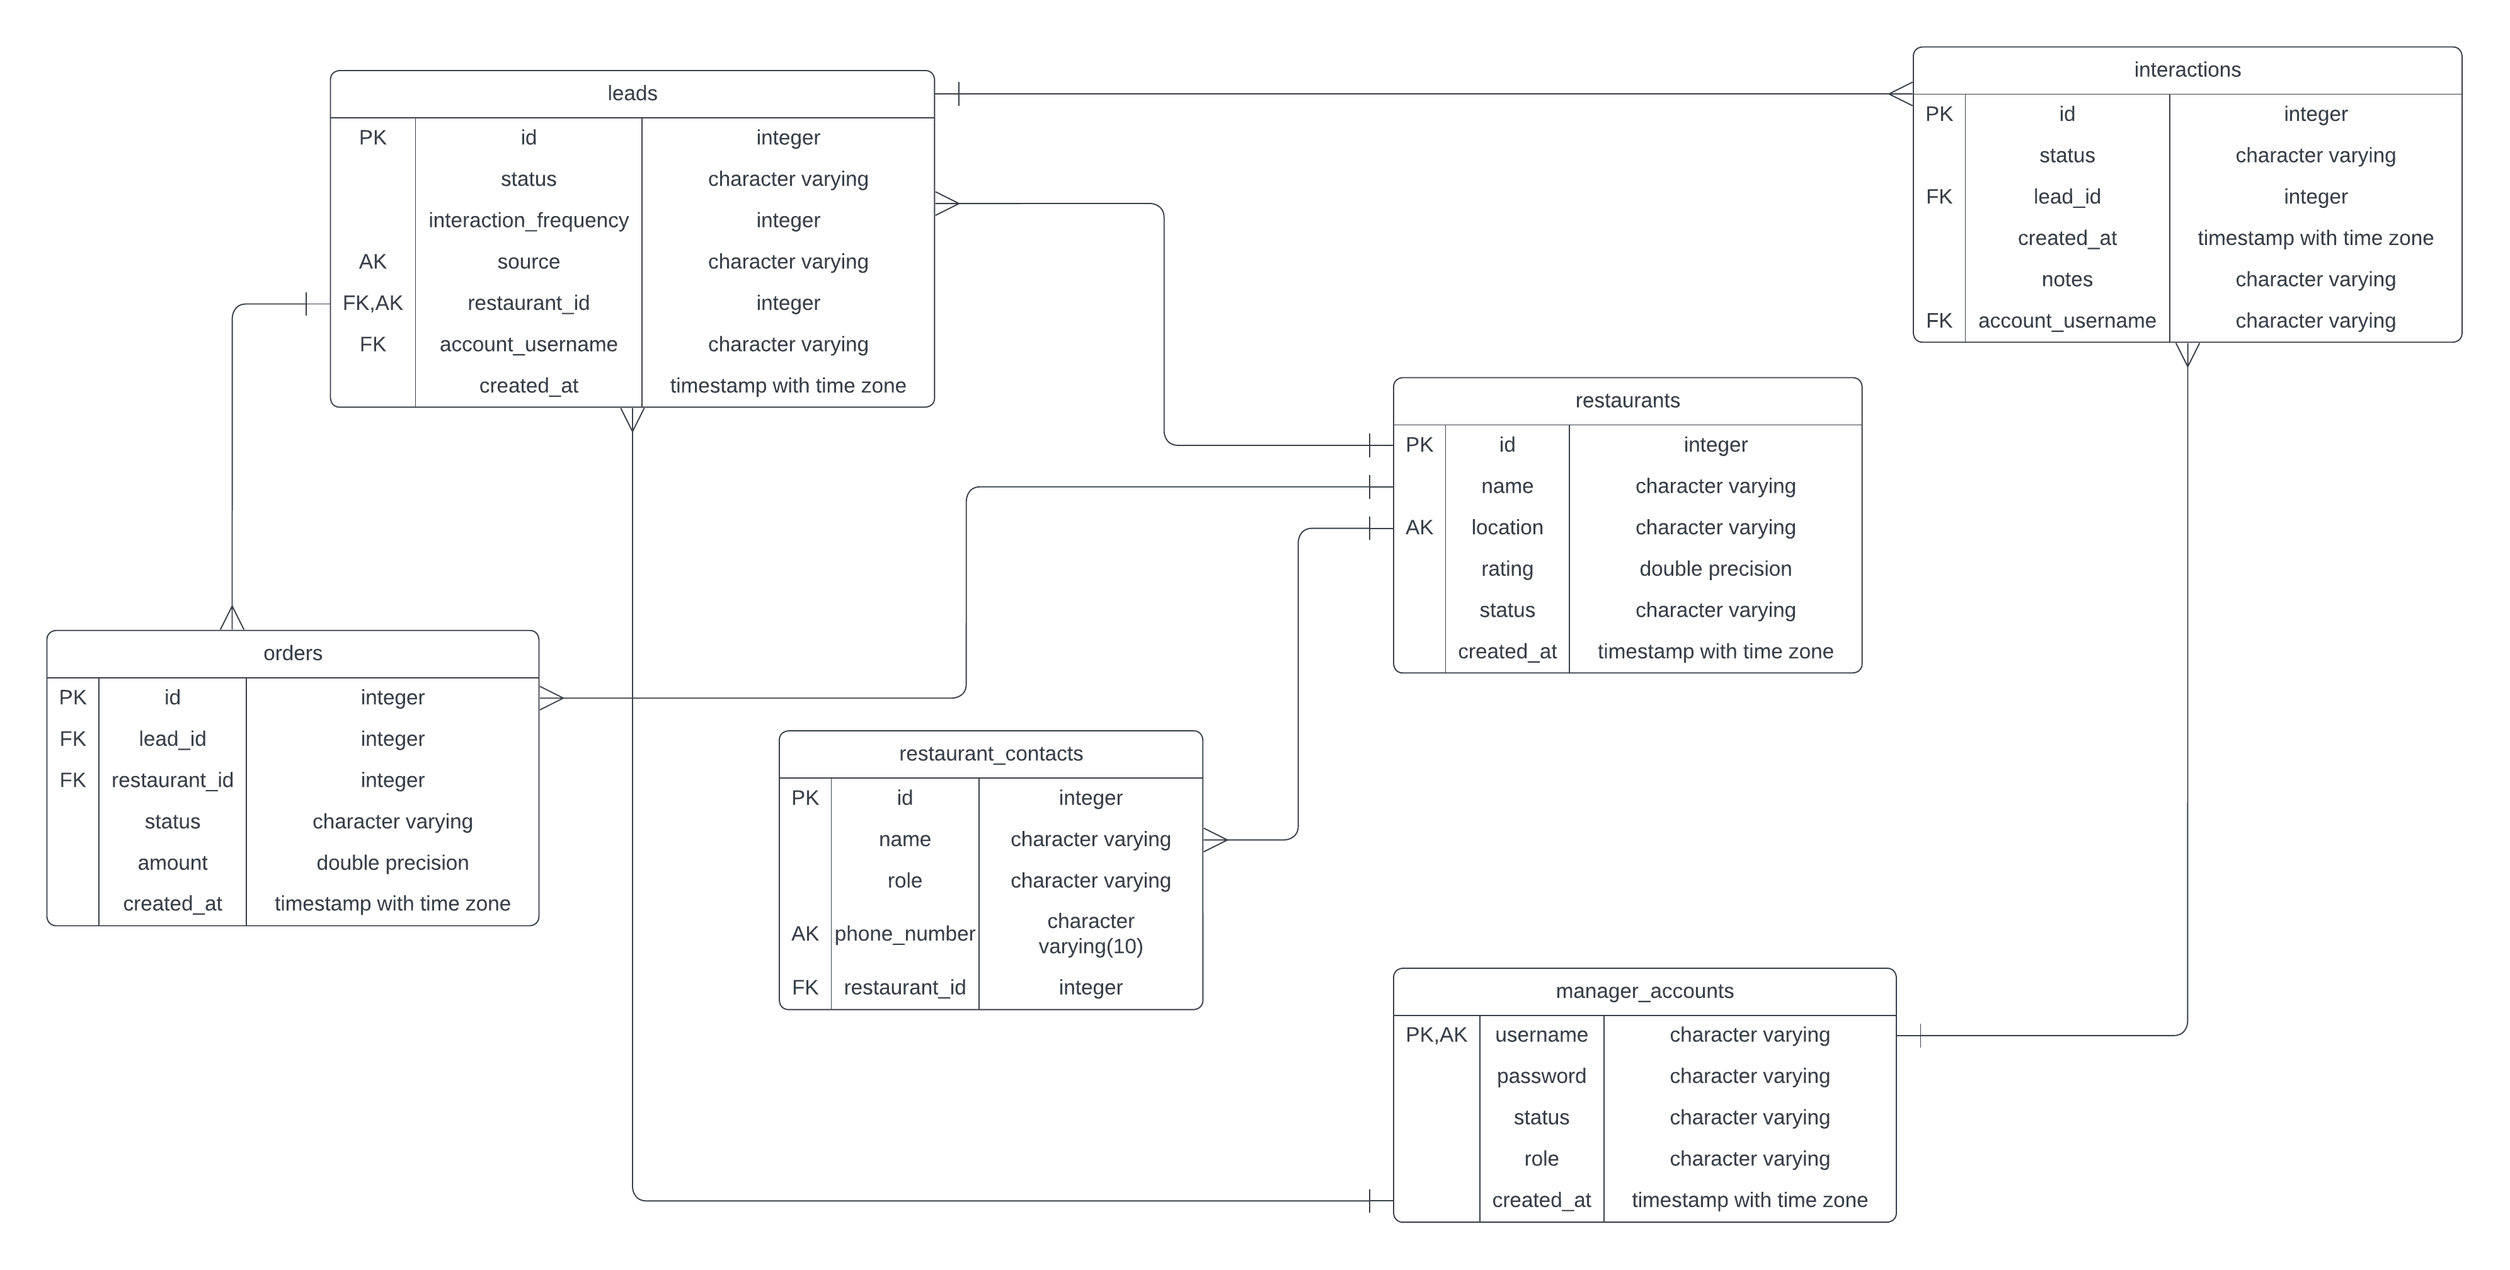
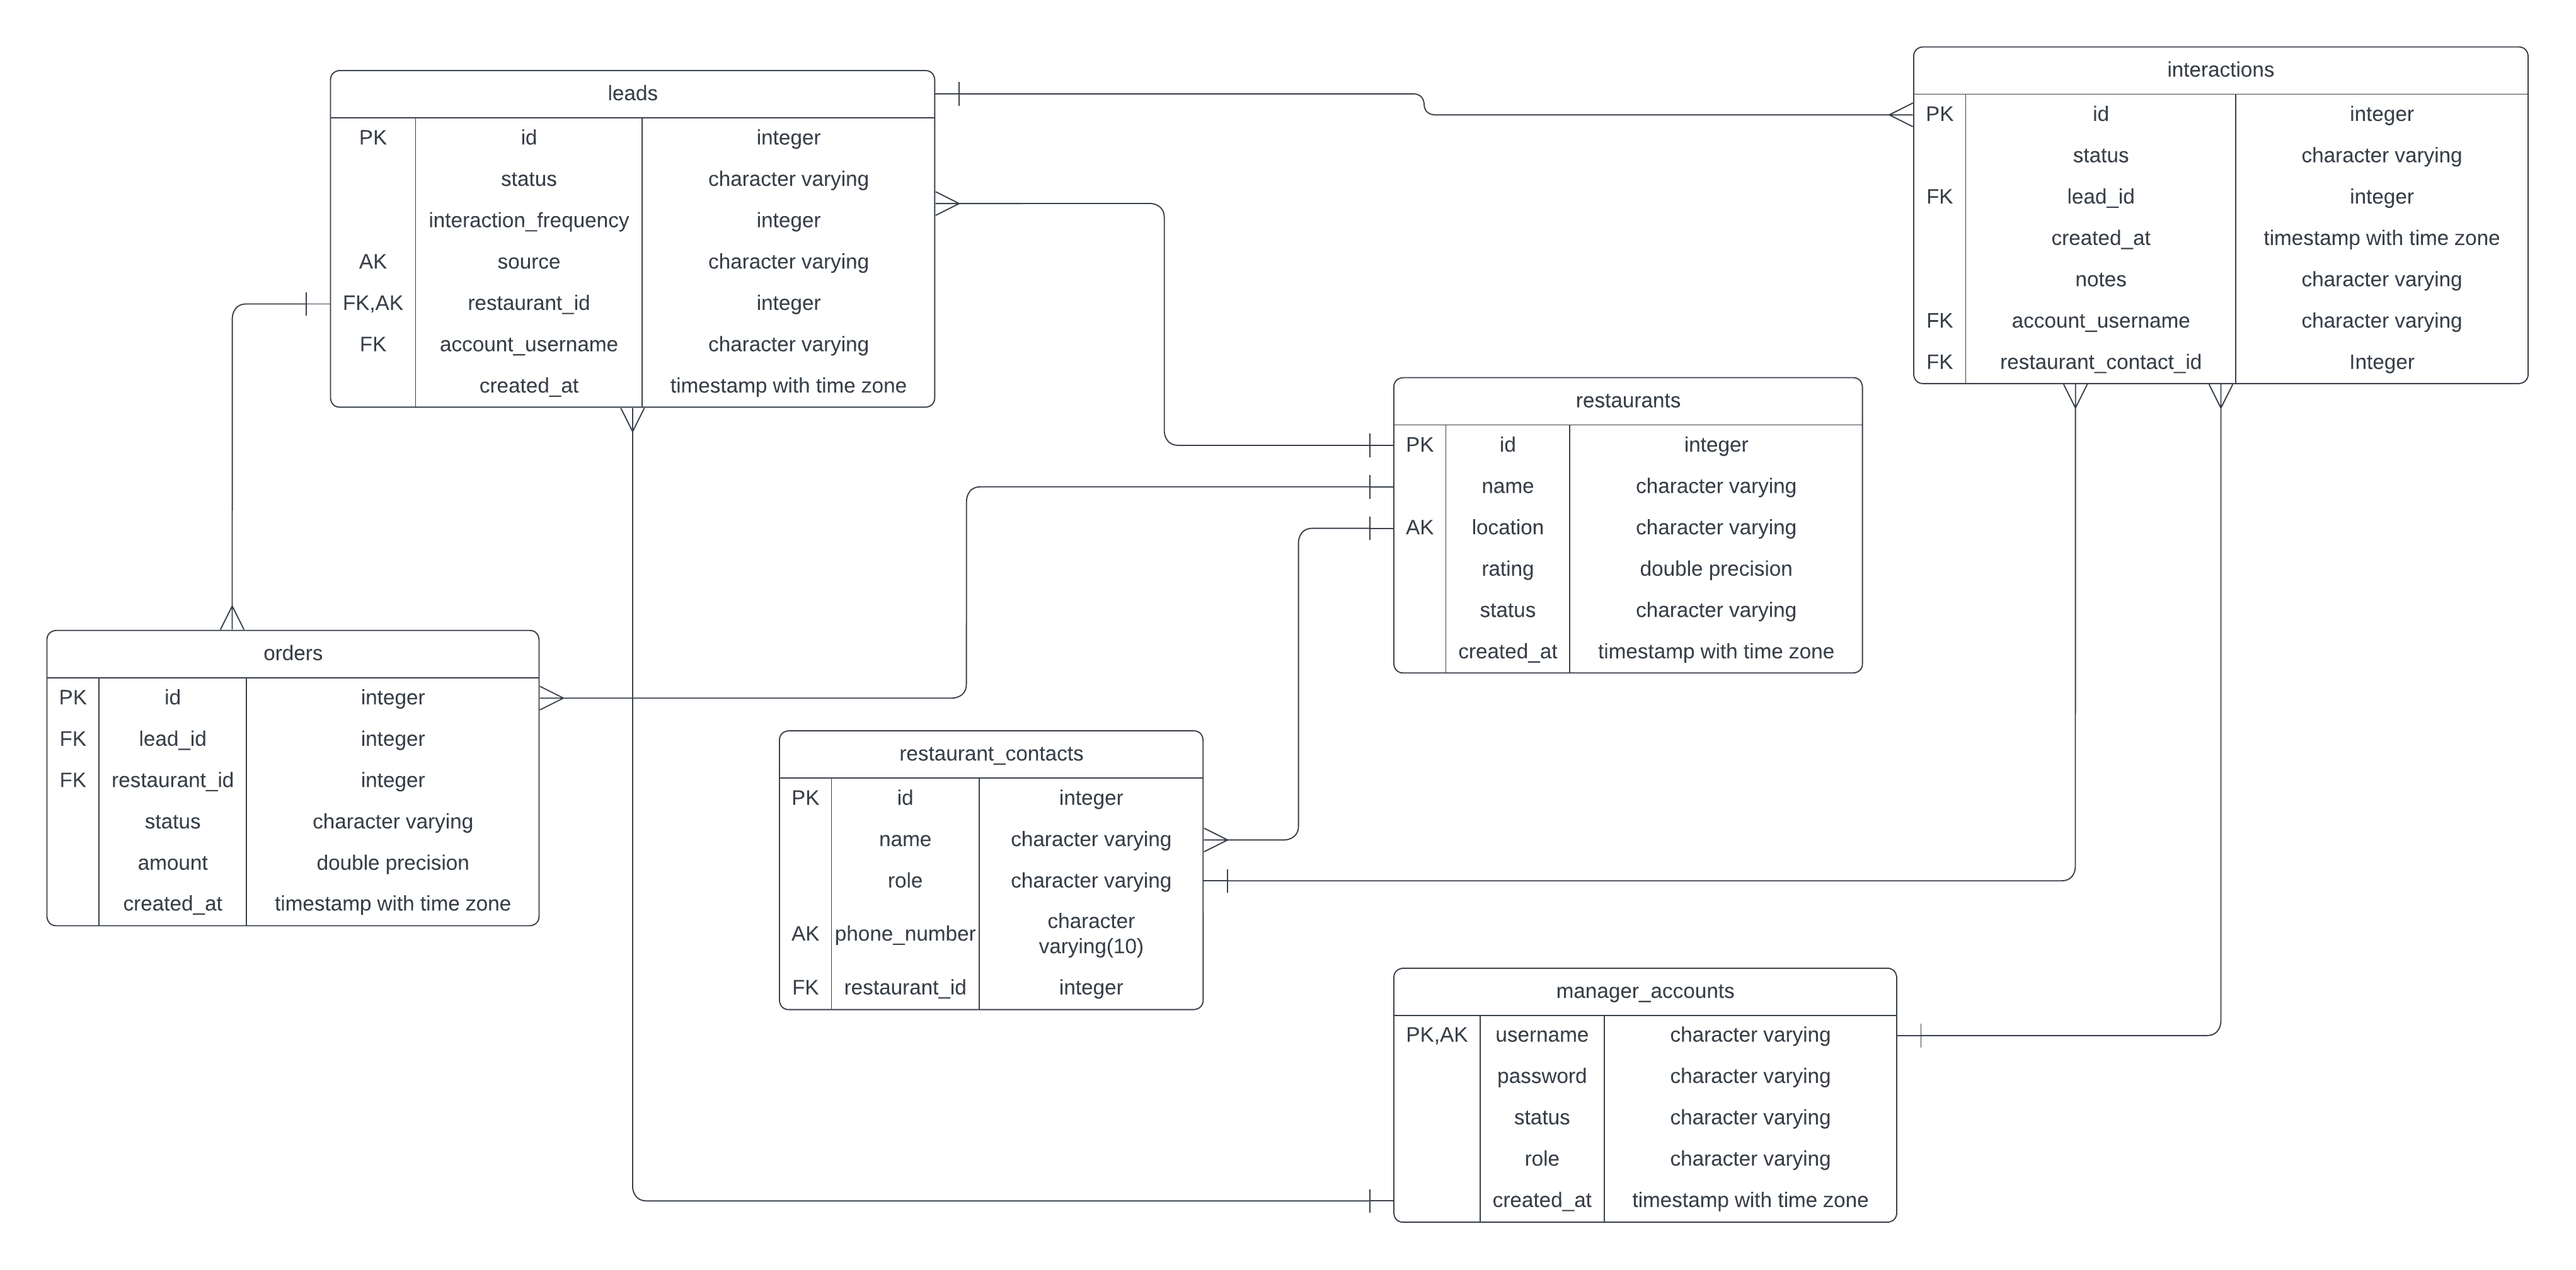
storing restuaurant_contact_id in interationDTO

diff --git a/LMS/service/interaction_service.py b/LMS/service/interaction_service.py
@@ -1,8 +1,8 @@
 from LMS.repository import InteractionRepository
 from LMS.utils import Singleton
 from LMS.entities import InteractionAdapter, InteractionDto, LeadAdapter
-from LMS.service import LeadService, ManagerAccountService
-from LMS.exceptions import LeadNotExistsException, ManagerAccountNotExistsException
+from LMS.service import LeadService, ManagerAccountService, RestaurantContactService
+from LMS.exceptions import LeadNotExistsException, ManagerAccountNotExistsException, RestaurantContactNotExistsException
 
 class InteractionService(metaclass=Singleton):
     def __init__(self):
@@ -10,6 +10,7 @@ class InteractionService(metaclass=Singleton):
         self.interaction_adapter = InteractionAdapter()
         self.lead_service = LeadService()
         self.lead_adapter = LeadAdapter()
+        self.restaurant_contact_service = RestaurantContactService()
         self.manager_account_service = ManagerAccountService()
 
     def add_interaction(self, interaction_dict: dict):
@@ -18,13 +19,18 @@ class InteractionService(metaclass=Singleton):
         # check if account_username exists in restaurants table
         account_username = interaction_dto.account_username
         if self.manager_account_service.get_manager_account(account_username) is None:
-            raise ManagerAccountNotExistsException("Manager account does not exist, so can't take order")
+            raise ManagerAccountNotExistsException("Manager account does not exist, so can't interact without this")
 
         # check if lead_id exists in leads table
         lead_id = interaction_dto.lead_id
         lead_dict = self.lead_service.get_lead(lead_id)
         if lead_dict is None:
-            raise LeadNotExistsException("Lead does not exist, so can't take order")
+            raise LeadNotExistsException("Lead does not exist, so can't interact without this")
+        
+        restaurant_contact_id = interaction_dto.restaurant_contact_id
+        restaurant_contact_dict = self.restaurant_contact_service.get_restaurant_contact(restaurant_contact_id)
+        if restaurant_contact_dict is None:
+            raise RestaurantContactNotExistsException("Restaurant does not exist, so can't interact without this")
 
         # update status of lead to contacted
         self.lead_service.update_lead(lead_id, {'status': 'contacted'})

diff --git a/LMS/entities/interactionDto.py b/LMS/entities/interactionDto.py
@@ -13,27 +13,30 @@ class InteractionApi:
         'status': fields.String(required=False, description="interaction status", default="in_progress"),
         'lead_id': fields.Integer(required=True, description="lead id"),
         'account_username': fields.String(required=True, description="account username"),
-        'notes': fields.String(required=False, description="call notes")
+        'notes': fields.String(required=False, description="call notes"),
+        'restaurant_contact_id': fields.String(required=True, description="Contact id to which call is made")
     })
 
 class InteractionDto:
-    def __init__(self, status, lead_id, account_username, notes):
+    def __init__(self, status, lead_id, account_username, notes, restaurant_contact_id):
         self.status = status
         self.lead_id = lead_id
         self.account_username = account_username
         self.notes = notes
+        self.restaurant_contact_id = restaurant_contact_id
 
 class InteractionAdapter:
     def convert_dict_to_Dto(self, data: dict):
-        return InteractionDto(data['status'], data['lead_id'], data['account_username'], data['notes'])
+        return InteractionDto(data['status'], data['lead_id'], data['account_username'], data['notes'], data['restaurant_contact_id'])
 
     def convert_to_dict(self, data: InteractionDto):
         return {
             'status': data.status,
             'lead_id': data.lead_id,
             'account_username': data.account_username,
-            'notes': data.notes
+            'notes': data.notes,
+            'restaurant_contact_id': data.restaurant_contact_id
         }
 
     def convert_db_object_to_Dto(self, db_object):
-        return InteractionDto(db_object.status, db_object.lead_id, db_object.account_username, db_object.notes)
+        return InteractionDto(db_object.status, db_object.lead_id, db_object.account_username, db_object.notes, db_object.restaurant_contact_id)

diff --git a/LMS/repository/interaction_repository.py b/LMS/repository/interaction_repository.py
@@ -11,10 +11,11 @@ class InteractionRepository:
             status = interaction_dto.status,
             lead_id = interaction_dto.lead_id,
             account_username = interaction_dto.account_username,
-            notes = interaction_dto.notes
+            notes = interaction_dto.notes,
+            restaurant_contact_id = interaction_dto.restaurant_contact_id
         )
         self.save_db(interaction)
-    
+
     def get_interaction(self, id):
         db_interaction = Interactions.query.filter_by(id=id).first()
         if db_interaction is None:

diff --git a/LMS/models/interactions.py b/LMS/models/interactions.py
@@ -13,6 +13,7 @@ class Interactions(db.Model):
     account_username = db.Column(db.String(), nullable=False)
     created_at = db.Column(db.DateTime, default=datetime.now)
     notes = db.Column(db.String())
+    restaurant_contact_id = db.Column(db.Integer, nullable=False)
 
     __table_args__ = (
         CheckConstraint(status.in_(['in_progress', 'completed', 'missed', 'rescheduled']), name='interaction_status_enum'),      
@@ -22,5 +23,3 @@ class Interactions(db.Model):
 
     def __repr__(self):
         return f"Interaction id: {self.id}"
-
-    

diff --git a/LMS/exceptions/__init__.py b/LMS/exceptions/__init__.py
@@ -1,6 +1,7 @@
 from .restaurantExistsException import RestaurantExistsException
 from .restaurantNotExistsException import RestaurantNotExistsException
 from .restaurantContactExistsException import RestaurantContactExistsException
+from .restaurantContactNotExistsException import RestaurantContactNotExistsException
 from .leadNotExistsException import LeadNotExistsException
 from .leadExistsException import LeadExistsException
 from .managerAccountExistsException import ManagerAccountExistsException

diff --git a/LMS/exceptions/restaurantContactNotExistsException.py b/LMS/exceptions/restaurantContactNotExistsException.py
@@ -1,0 +1,2 @@
+class RestaurantContactNotExistsException(Exception):
+    """Restaurant Contact not Exception class"""
